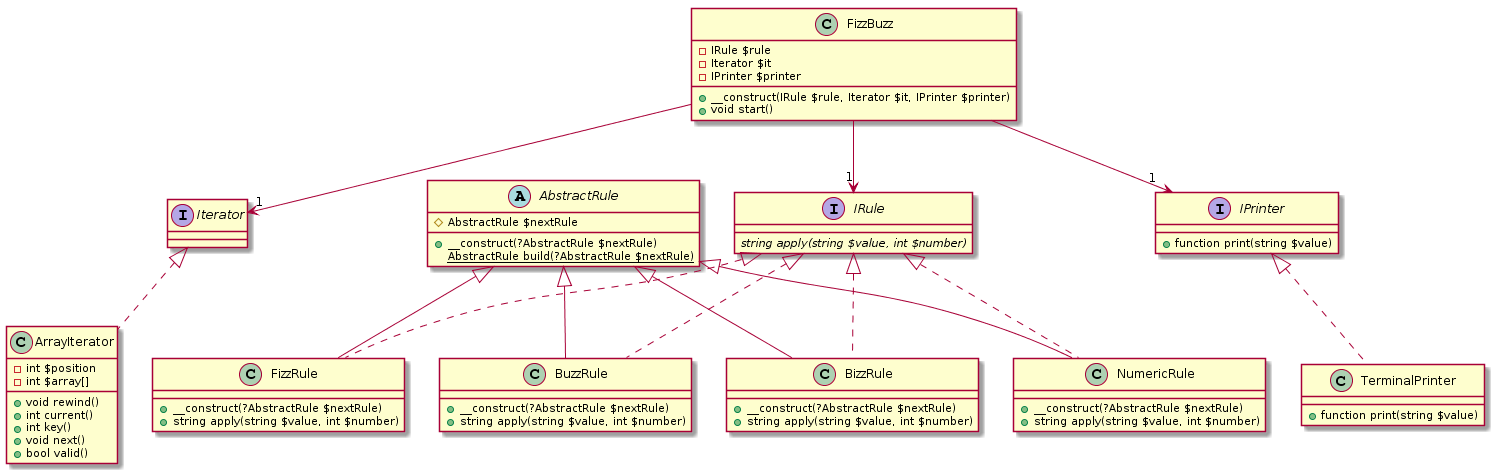
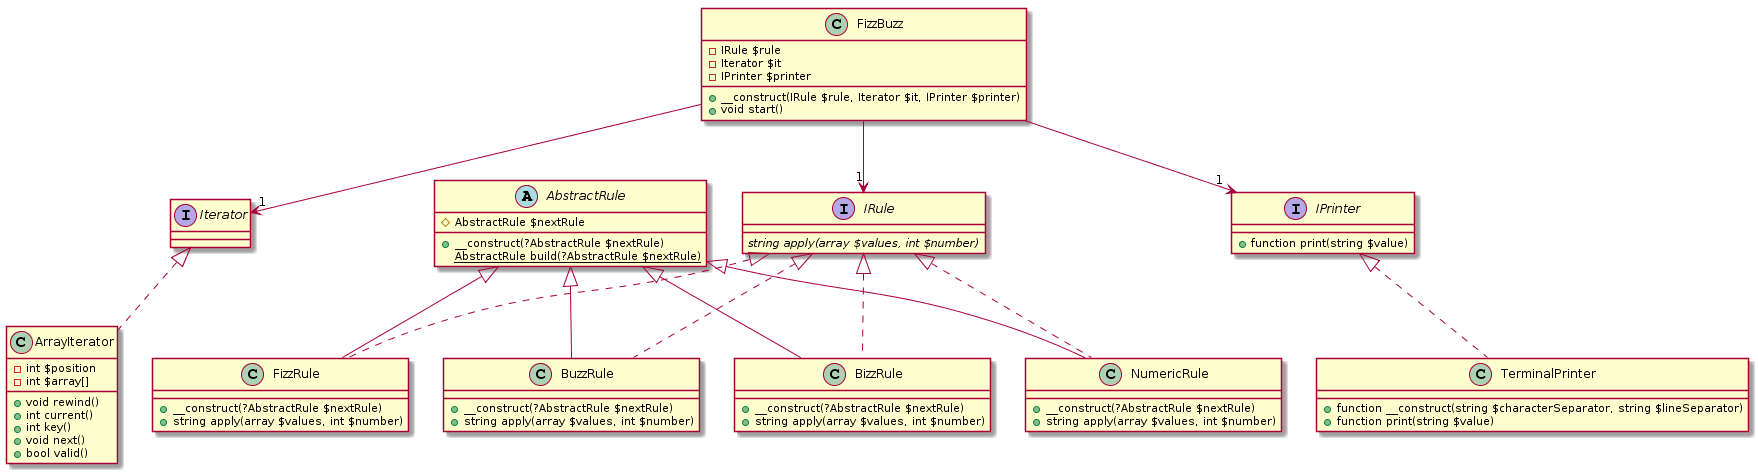
[fix]文字列ごとの区切り文字の管理を出力側に移譲

diff --git a/app/Controller.php b/app/Controller.php
@@ -17,7 +17,7 @@ class Controller
 		$numericArray = array(1, 2, 3, 4, 5, 6, 7, 8, 9, 10, 11, 12, 13, 14, 15, 16, 17, 18, 19, 20, 21, 22, 23, 24, 25, 26, 27, 28, 29, 30, 31, 32, 33, 34, 35, 36, 37, 38, 39, 40, 41, 42, 43, 44, 45, 46, 47, 48, 49, 50, 51, 52, 53, 54, 55, 56, 57, 58, 59, 60, 61, 62, 63, 64, 65, 66, 67, 68, 69, 70, 71, 72, 73, 74, 75, 76, 77, 78, 79, 80, 81, 82, 83, 84, 85, 86, 87, 88, 89, 90, 91, 92, 93, 94, 95, 96, 97, 98, 99, 100, 101, 102, 103, 104, 105, 106, 107, 108, 109, 110, 111, 112, 113, 114, 115, 116, 117, 118, 119, 120, 121, 122, 123, 124, 125, 126, 127, 128, 129, 130, 131, 132, 133, 134, 135, 136, 137, 138, 139, 140, 141, 142, 143, 144, 145, 146, 147, 148, 149, 150, 151, 152, 153, 154, 155, 156, 157, 158, 159, 160, 161, 162, 163, 164, 165, 166, 167, 168, 169, 170, 171, 172, 173, 174, 175, 176, 177, 178, 179, 180, 181, 182, 183, 184, 185, 186, 187, 188, 189, 190, 191, 192, 193, 194, 195, 196, 197, 198, 199, 200);
 		$rule = FizzRule::build(BuzzRule::build(BizzRule::build(NumericRule::build(null))));
 		$it = new ArrayIterator(0, 200);
-		$printer = new TerminalPrinter("\n");
+		$printer = new TerminalPrinter("","\n");
 		$fizzBuzz = new FizzBuzz($rule, $it, $printer);
 		$fizzBuzz->start();
 	}

diff --git a/src/TerminalPrinter.php b/src/TerminalPrinter.php
@@ -3,14 +3,14 @@ namespace FizzBuzz;
 
 class TerminalPrinter implements IPrinter
 {
-	private $separator;
 
-	public function __construct(string $separator)
+	public function __construct(string $characterSeparator, string $lineSeparator)
 	{
-		$this->separator = $separator;
+		$this->characterSeparator = $characterSeparator;
+        $this->lineSeparator = $lineSeparator;
 	}
-	public function print($value)
+	public function print(array $values)
 	{
-		echo $value . $this->separator;
+	    echo implode($this->characterSeparator, $values) . $this->lineSeparator;
 	}
 }

diff --git a/src/NumericRule.php b/src/NumericRule.php
@@ -8,9 +8,11 @@ class NumericRule extends AbstractRule
 		parent::__construct($nextRule);
 	}
 
-	public function apply($value, $number)
-	{
-		$value .= ($value === "")? $number:"";
-		return is_null($this->nextRule)?$value:$this->nextRule->apply($value, $number);
-	}
+    public function apply(array $values, $number)
+    {
+        if(count($values) === 0) {
+            $values[] = (string)$number;
+        }
+        return is_null($this->nextRule)?$values:$this->nextRule->apply($values, $number);
+    }
 }

diff --git a/src/BuzzRule.php b/src/BuzzRule.php
@@ -8,9 +8,11 @@ class BuzzRule extends AbstractRule
 		parent::__construct($nextRule);
 	}
 
-	public function apply($value, $number)
-	{
-		$value .= ($number % 5 === 0)? "Buzz":"";
-		return is_null($this->nextRule)?$value:$this->nextRule->apply($value, $number);
-	}
+    public function apply(array $values, $number)
+    {
+        if($number % 5 === 0) {
+            $values[] = "Buzz";
+        }
+        return is_null($this->nextRule)?$values:$this->nextRule->apply($values, $number);
+    }
 }

diff --git a/src/FizzRule.php b/src/FizzRule.php
@@ -8,9 +8,11 @@ class FizzRule extends AbstractRule
 		parent::__construct($nextRule);
 	}
 
-	public function apply($value, $number)
-	{
-		$value .= ($number % 3 === 0)? "Fizz":"";
-		return is_null($this->nextRule)?$value:$this->nextRule->apply($value, $number);
-	}
+    public function apply(array $values, $number)
+    {
+        if($number % 3 === 0) {
+            $values[] = "Fizz";
+        }
+        return is_null($this->nextRule)?$values:$this->nextRule->apply($values, $number);
+    }
 }

diff --git a/src/BizzRule.php b/src/BizzRule.php
@@ -8,9 +8,11 @@ class BizzRule extends AbstractRule
 		parent::__construct($nextRule);
 	}
 
-	public function apply($value, $number)
+	public function apply(array $values, $number)
 	{
-		$value .= ($number % 7 === 0)? "Bizz":"";
-		return is_null($this->nextRule)?$value:$this->nextRule->apply($value, $number);
+	    if($number % 7 === 0) {
+	        $values[] = "Bizz";
+        }
+		return is_null($this->nextRule)?$values:$this->nextRule->apply($values, $number);
 	}
 }

diff --git a/src/FizzBuzz.php b/src/FizzBuzz.php
@@ -17,7 +17,7 @@ class FizzBuzz
 	{
 
 		foreach($this->it as $key => $value) {
-			$this->printer->print($this->rule->apply("", $value));
+			$this->printer->print($this->rule->apply(array(), $value));
 		}
 	}
 }

diff --git a/src/AbstractRule.php b/src/AbstractRule.php
@@ -15,5 +15,5 @@ abstract class AbstractRule
 		return new static($nextRule);
 	}
 
-	abstract public function apply($value, $number);
+	abstract public function apply(array $values, $number);
 }

diff --git a/src/IPrinter.php b/src/IPrinter.php
@@ -3,5 +3,5 @@ namespace FizzBuzz;
 
 interface IPrinter
 {
-	public function print($value);
+	public function print(array $values);
 }
